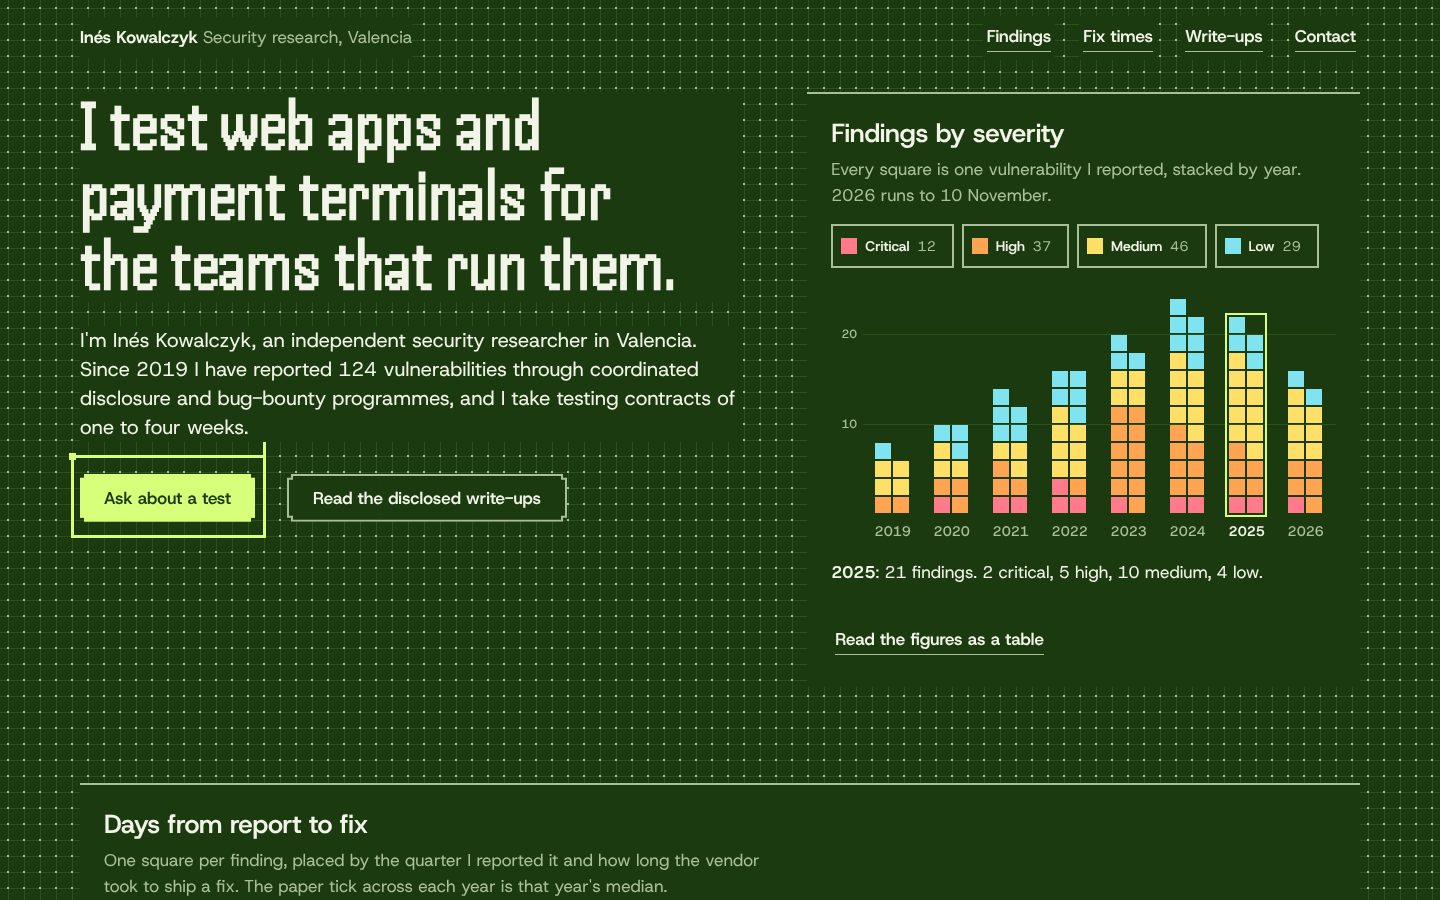
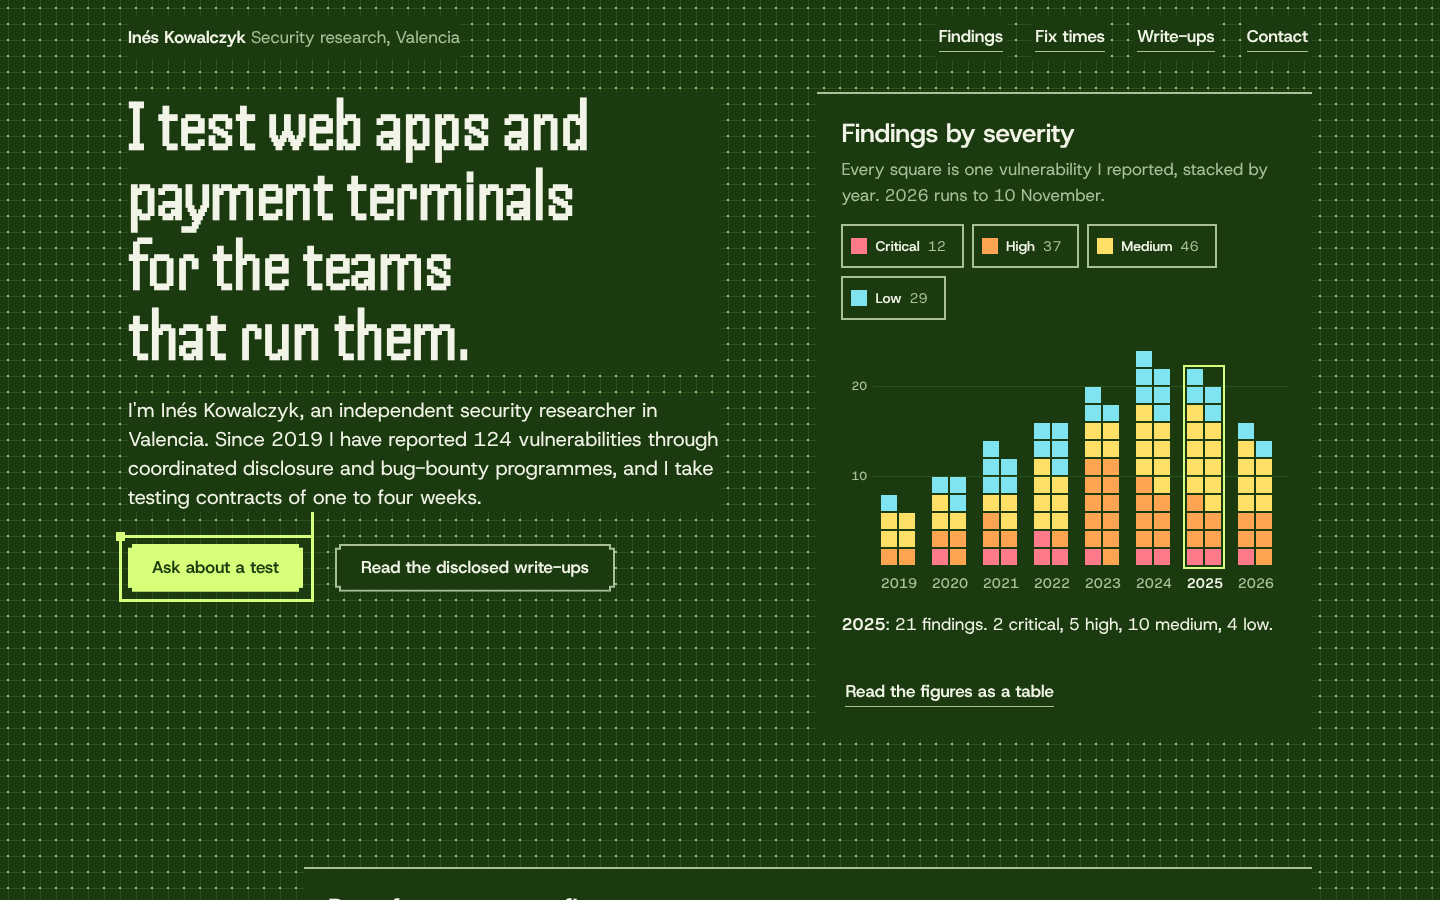
WIP: polish portfolio-security-researcher
Claude-Session: https://claude.ai/code/session_014gPHh5EbMkBhuoP7FP55sD

diff --git a/designs/portfolio-security-researcher/design.md b/designs/portfolio-security-researcher/design.md
@@ -22,7 +22,7 @@ avoid_when:
 
 ## Why it works
 
-**The one bold idea: the visitor is a packet on the network.** A 16px grid lies behind the whole section. A head follows the visitor, but only along grid lines: it moves one cell per step, horizontally or vertically, turns at right angles (the longer axis first), and leaves a solid 3px line that keeps the last 48 cells and loses them from the tail in whole cells. Corners are square joints because every cell is drawn as an overlapping solid bar. When the pointer rests for 0.18s the head parks and the line shortens to nothing, then the loop sleeps. The line is drawn under the content, and every text block (`.g`, panels, write-up rows) sits on the moss ground, so the line disappears under a block and reappears on the other side like a cable routed under a rack. It never crosses words.
+**The one bold idea: the visitor is a packet on the network.** A 16px grid lies behind the whole section. A head follows the visitor, but only along grid lines: it moves one cell per step, horizontally or vertically, turns at right angles (the longer axis first), and leaves a solid 3px line that keeps the last 48 cells and loses them from the tail in whole cells. Corners are square joints because every cell is drawn as an overlapping solid bar. When the pointer rests for 0.18s the head parks and the line shortens to nothing, then the loop sleeps. Content blocks are obstacles, not covers. When the pointer, a tap or focus lands inside a block (the headline and lede, each panel, each write-up row, the footer), the head's target becomes the nearest cell on that block's outline: its rectangle pushed out 6px to the grid lines, with blocks closer than two cells merged into one. The head wall-follows to get there: a step into a block turns to the other axis, or slides along the block's edge toward its nearer corner, keeping that slide until the way ahead opens. So the line hugs whatever is being pointed at and travels along block edges and lanes. Blocks sit on the moss ground and the line is drawn under them, so it never crosses words. The layout leaves the grid open: 64px lanes between blocks, at least 128px page gutters at 1440 (content is 1184px), a 96px gap between the two top columns, 128px open bands between the major parts, chart B and the write-up rows capped at 1008px, and the rows staggered left and right so the lane zigzags down the list. The head is a 9px square, larger than the 3px line.
 
 - **Different from the nearest ledger entries.** nav-game-museum walks a marker along a breadth-first path to a chosen room and leaves footprints; this head never searches, it routes greedily in L-shapes toward wherever the visitor is, and what it leaves is a fixed-length line, not marks. features-cyberdeck-kit sends many short pulses away from the pointer along a fixed PCB network; here there is one head, one line, the whole grid is the network, and it comes toward the visitor. cta-indie-game lights cells under the pointer; here nothing lights, a line is routed.
 - **The load teaches the trace.** The headline is visible from the first frame. The head enters from the left edge on the grid row under the headline, runs right past the primary button, turns down, turns back along the button's top edge (two turns), and when it reaches the button's top-left corner the lede and both buttons cut in. It then runs once around the button and parks at its top-left corner. The whole run is 1.05s. The loop stays drawn around "Ask about a test" until the visitor's first pointer, touch or focus input, so the first screen shows the mechanic at rest.
@@ -35,14 +35,17 @@ avoid_when:
 Deviations from the brief, and why:
 
 - **The grid itself is CSS, the trace is canvas.** The grid is static, so it is three hard-stop background layers on the section (1px lighter-moss lines, a 2px lichen node at each crossing); it is visible before any script runs and costs nothing to scroll. The canvas draws only the head and its line. The grid lines are offset half a cell from the section origin so that nodes never sit on the edge of a text block.
+- **Blocks are obstacles.** In a first build the head followed the pointer straight under opaque panels, and the line was hidden most of the time. The target now moves to the block's outline and the head wall-follows around blocks. This is a cheap greedy router, not a pathfinder, so in a tight pocket it can stop one cell short and wait for the next input.
+- **Keyboard focus inside a block** runs the head to the block's outline beside the control and parks it there, because a loop around a control inside a block would be hidden under it. Controls in open grid (the hero buttons, the nav links) still get the run once around their rectangle.
 - **The opening loop stays drawn until the first input.** The brief has the head park at the button after the load. The 48-cell line around the button is kept at rest (the loop is asleep) until the visitor first moves, taps or tabs, so the first screen shows the trace. Every later rest retracts the line as specified.
 - **Under reduced motion and with the CDN blocked, the canvas shows a composed still frame**: the end of the opening run, the line around the primary button with the head at its top-left corner.
 
 ## Do not touch
 
 - **One cell for everything.** `--cell` (16px) sets the CSS grid, the canvas routing, the half-cell grid offset and the spacing scale. The canvas reads it at size time; change it in one place only and the line leaves the grid lines.
-- **The line is bars, not strokes.** Each cell of the trail is a `fillRect` from node to node, `--line` (3px) thick, offset by half the line width. Overlapping bars make the square joints. Do not switch to `stroke()` with round caps or joins, and do not add alpha or blending.
-- **The router keeps its axis.** `advance()` picks the longer axis, keeps to it until that delta is zero or changes sign, then takes the other axis. That rule is what makes every route an L. A per-step "nearest axis" choice turns it into a staircase.
+- **The line is bars, not strokes.** Each cell of the trail is a `fillRect` from node to node, `--line` (3px) thick, offset by half the line width. Overlapping bars make the square joints. The head is a 9px square. Do not switch to `stroke()` with round caps or joins, and do not add alpha or blending.
+- **The router keeps its axis.** `advance()` picks the longer axis, keeps to it until that delta is zero or changes sign, then takes the other axis. That rule is what makes every route an L. A per-step "nearest axis" choice turns it into a staircase. Once it is sliding along an obstacle it must keep sliding; letting it fall back to the other axis makes it oscillate.
+- **The lanes are the signature's stage.** `--lane`, `--slab`, `--max-w` and `--s9` keep at least a third of the first screen as open grid. Widening the blocks hides the line again. The obstacle list is the `BLOCKS` selector in the trace module; add any new opaque block to it.
 - **The canvas is parked in section coordinates.** It is viewport height plus 160px either side and is translated to the current scroll position at every draw, so a resting drawing scrolls with the page and the loop can sleep. Do not make it `position: fixed`.
 - **Text blocks sit on the ground.** `.g`, `.panel` and `.wu` have a moss background. Remove it and the line crosses words.
 - **Corners on inner spans.** The packet faces carry the stepped `clip-path`; `.btn` itself never does, so its focus outline (offset 8px, clear of the 4px open gaps) is never clipped. The cut lines `--a` and `--b` are set in whole pixels by the script; percentage cuts leave hairline seams.
@@ -56,10 +59,10 @@ House stepping: everything moves in whole cells, whole pixels or `steps()`. The 
 
 | Animation | Technique | Trigger | Timing | Reduced motion |
 |---|---|---|---|---|
-| The trace follows the pointer | Canvas, grid router (signature) | pointermove (mouse and pen); also scroll under a still pointer | One cell per step at 60 + 5 x (cells behind) per second, capped at 720; keeps the last 48 cells; parks at the pointer's cell; after 0.18s at rest the tail retracts at 60 cells/s, then the loop sleeps | Still frame, no motion |
+| The trace follows the pointer | Canvas, grid router with obstacles (signature) | pointermove (mouse and pen); also scroll under a still pointer | A target inside a block moves to the nearest cell of its outline; the head wall-follows around blocks. One cell per step at 60 + 5 x (cells behind) per second, capped at 720; keeps the last 48 cells; parks at the pointer's cell; after 0.18s at rest the tail retracts at 60 cells/s, then the loop sleeps | Still frame, no motion |
 | Touch: drag | Same router | touchmove beyond 10px | The head follows the finger's cell as above | Still frame |
 | Touch: tap | Same router | touchend without a drag | The head routes from where it is to the tap in one L-shaped run (longer axis first) | Still frame |
-| Keyboard focus | Same router, scripted waypoints | focusin with :focus-visible after a Tab, arrow, Home or End key | Runs to the control's top-left grid corner (rectangle pushed out 6px to the nearest lines), once around it, parks at the top-left | Off |
+| Keyboard focus | Same router, scripted waypoints | focusin with :focus-visible after a Tab, arrow, Home or End key | A control in open grid: runs to its top-left grid corner (rectangle pushed out 6px to the nearest lines), once around it, parks at the top-left. A control inside a block: runs to the block's outline beside it and parks | Off |
 | Head off screen | Re-entry | Any new target while the head is more than 2 cells outside the viewport | The head re-enters from the left edge on the target's row | Off |
 | Opening run | Scripted trace (load) | Fonts ready and page visible; skipped if the page opens scrolled past one screen | 1.05s total at a fixed rate: from the left edge along the row under the h2, down, back along the button's top edge, once around "Ask about a test"; the line then stays until the first input | Still frame of the loop |
 | Lede and buttons cut in | visibility hard cut | The head reaches the primary button's top-left corner (about halfway through the run) | Instant | Visible |
@@ -99,8 +102,8 @@ House stepping: everything moves in whole cells, whole pixels or `steps()`. The 
 | `--t-small` ... `--t-h2`, `--t-ep` | Type scale: 14, 17, 20, 20, 26, clamp(44px, 4.4vw + 8px, 76px), and 30 for the handshake endpoints; smaller on phones |
 | `--lh-body`, `--lh-lede` | 1.5 and 1.45 |
 | `--cell` | The grid: 16px |
-| `--s1` ... `--s8` | Spacing on the cell: 4, 8, 16, 24, 32, 48, 64, 96 |
-| `--max-w` | Content width, 1280px (80 cells) |
+| `--s1` ... `--s9` | Spacing on the cell: 4, 8, 16, 24, 32, 48, 64, 96, 128 (96 on phones) |
+| `--max-w`, `--slab`, `--lane` | Content width 1184px (74 cells; the rest is open gutter), widest full-row block 1008px, open lane between blocks 64px (48px on phones) |
 | `--notch`, `--gap`, `--line` | Stepped corner (4px), packet gap and jump (4px), trace line width (3px) |
 | `--tap`, `--hit` | Primary button and field height (48px), every other target (44px) |
 | `--trace-len`, `--trace-rate` | Cells of line kept (48) and the base speed (60 cells/s) |
